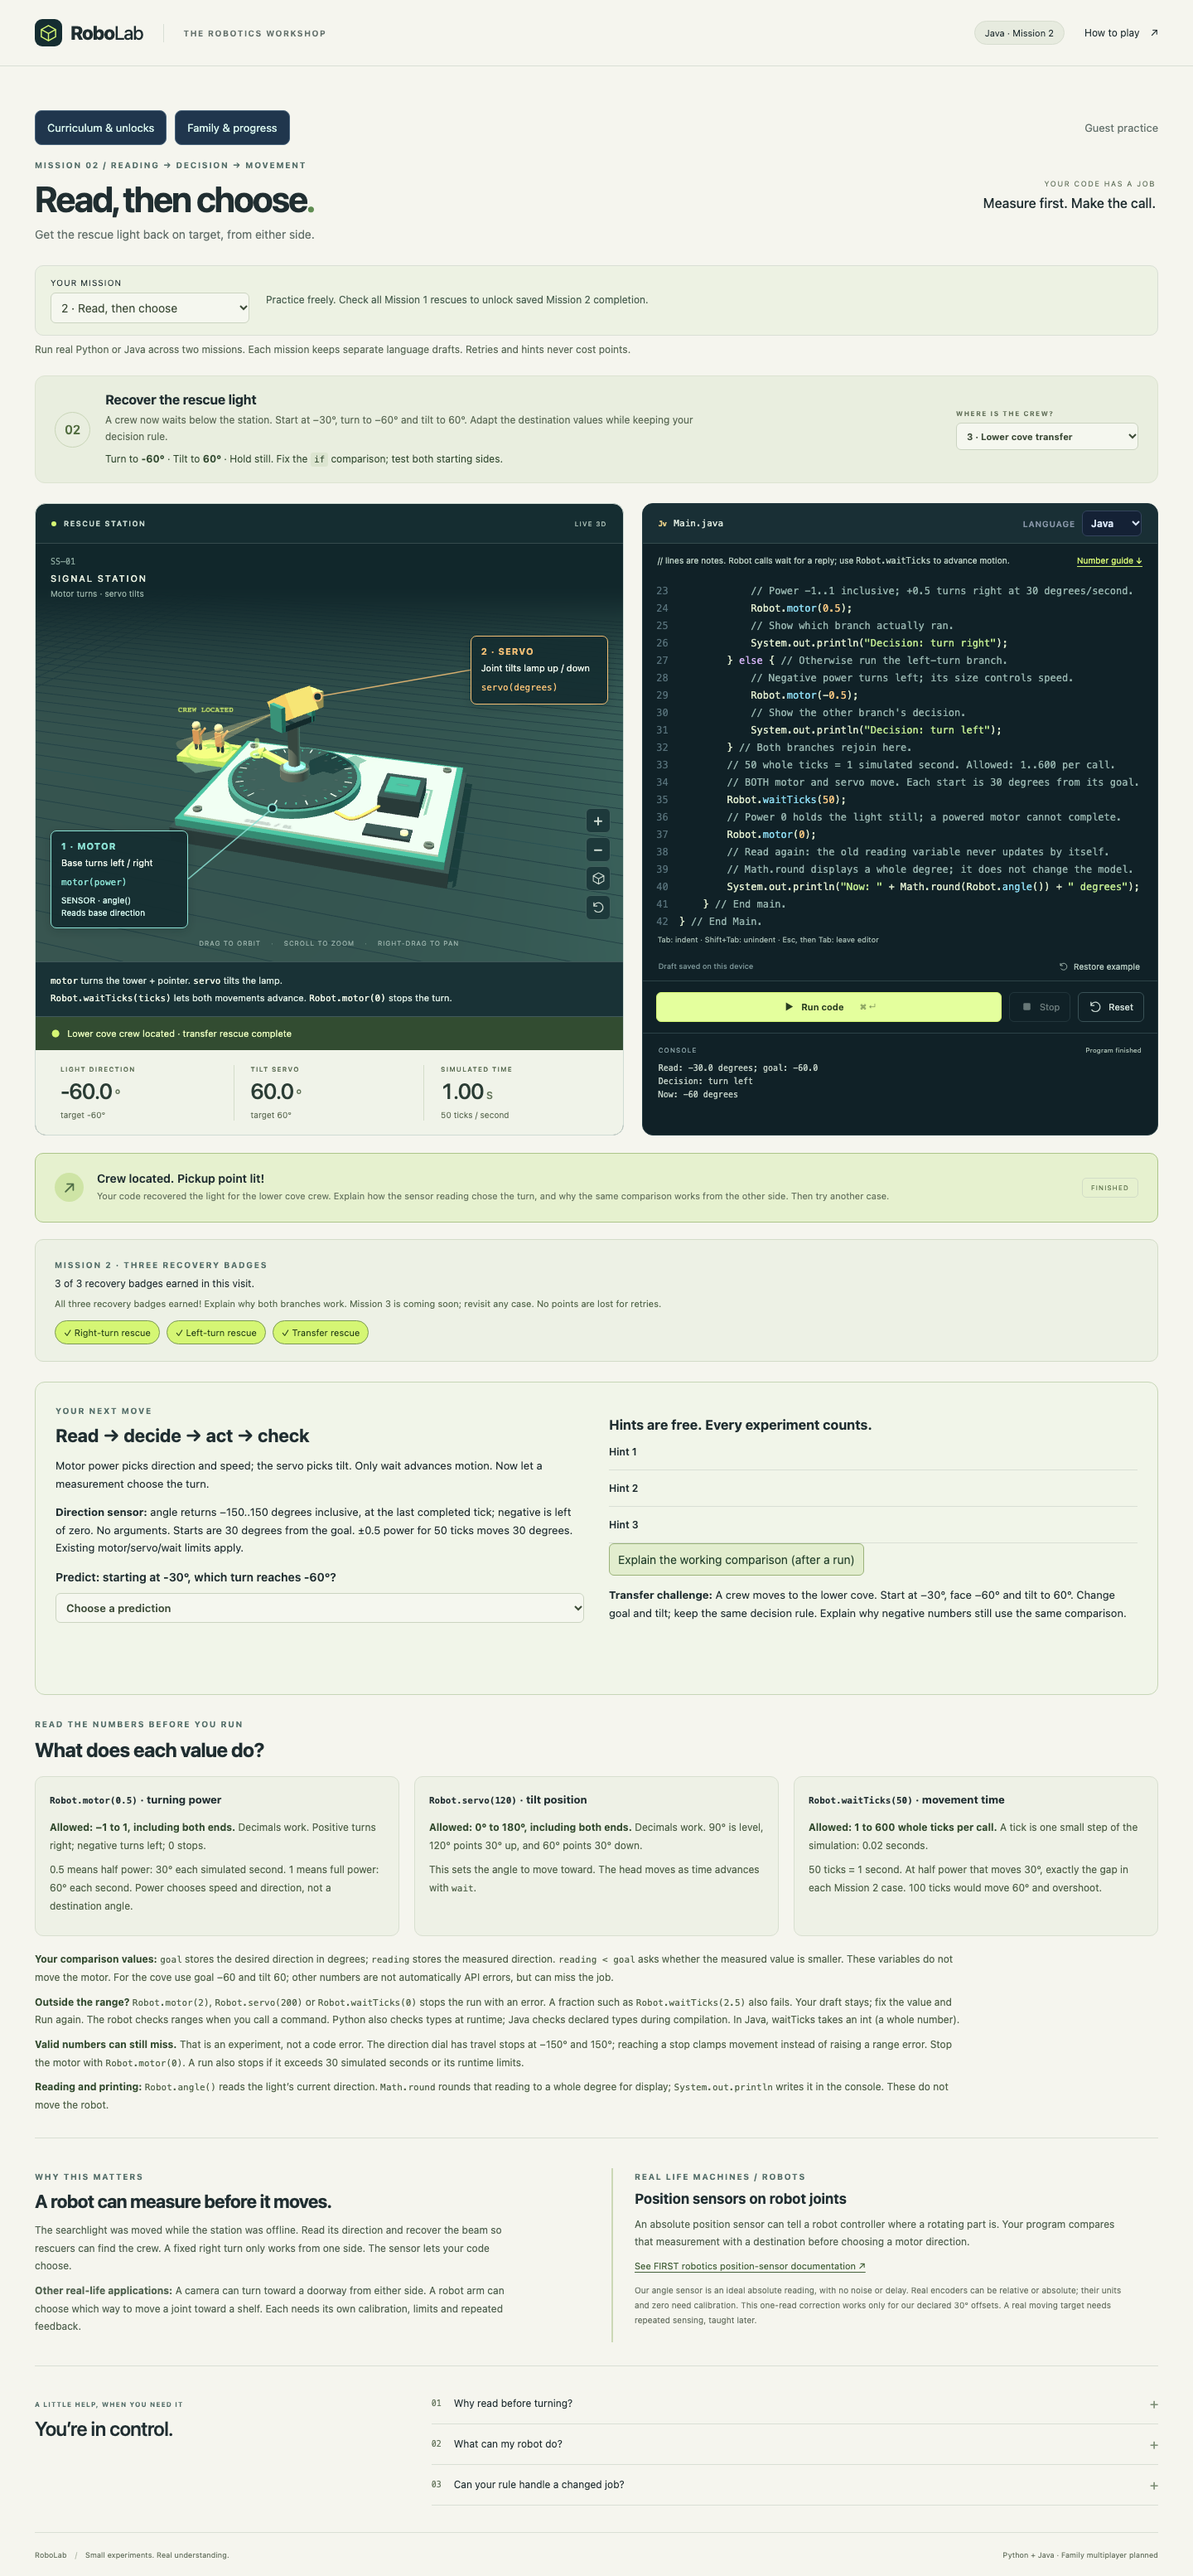
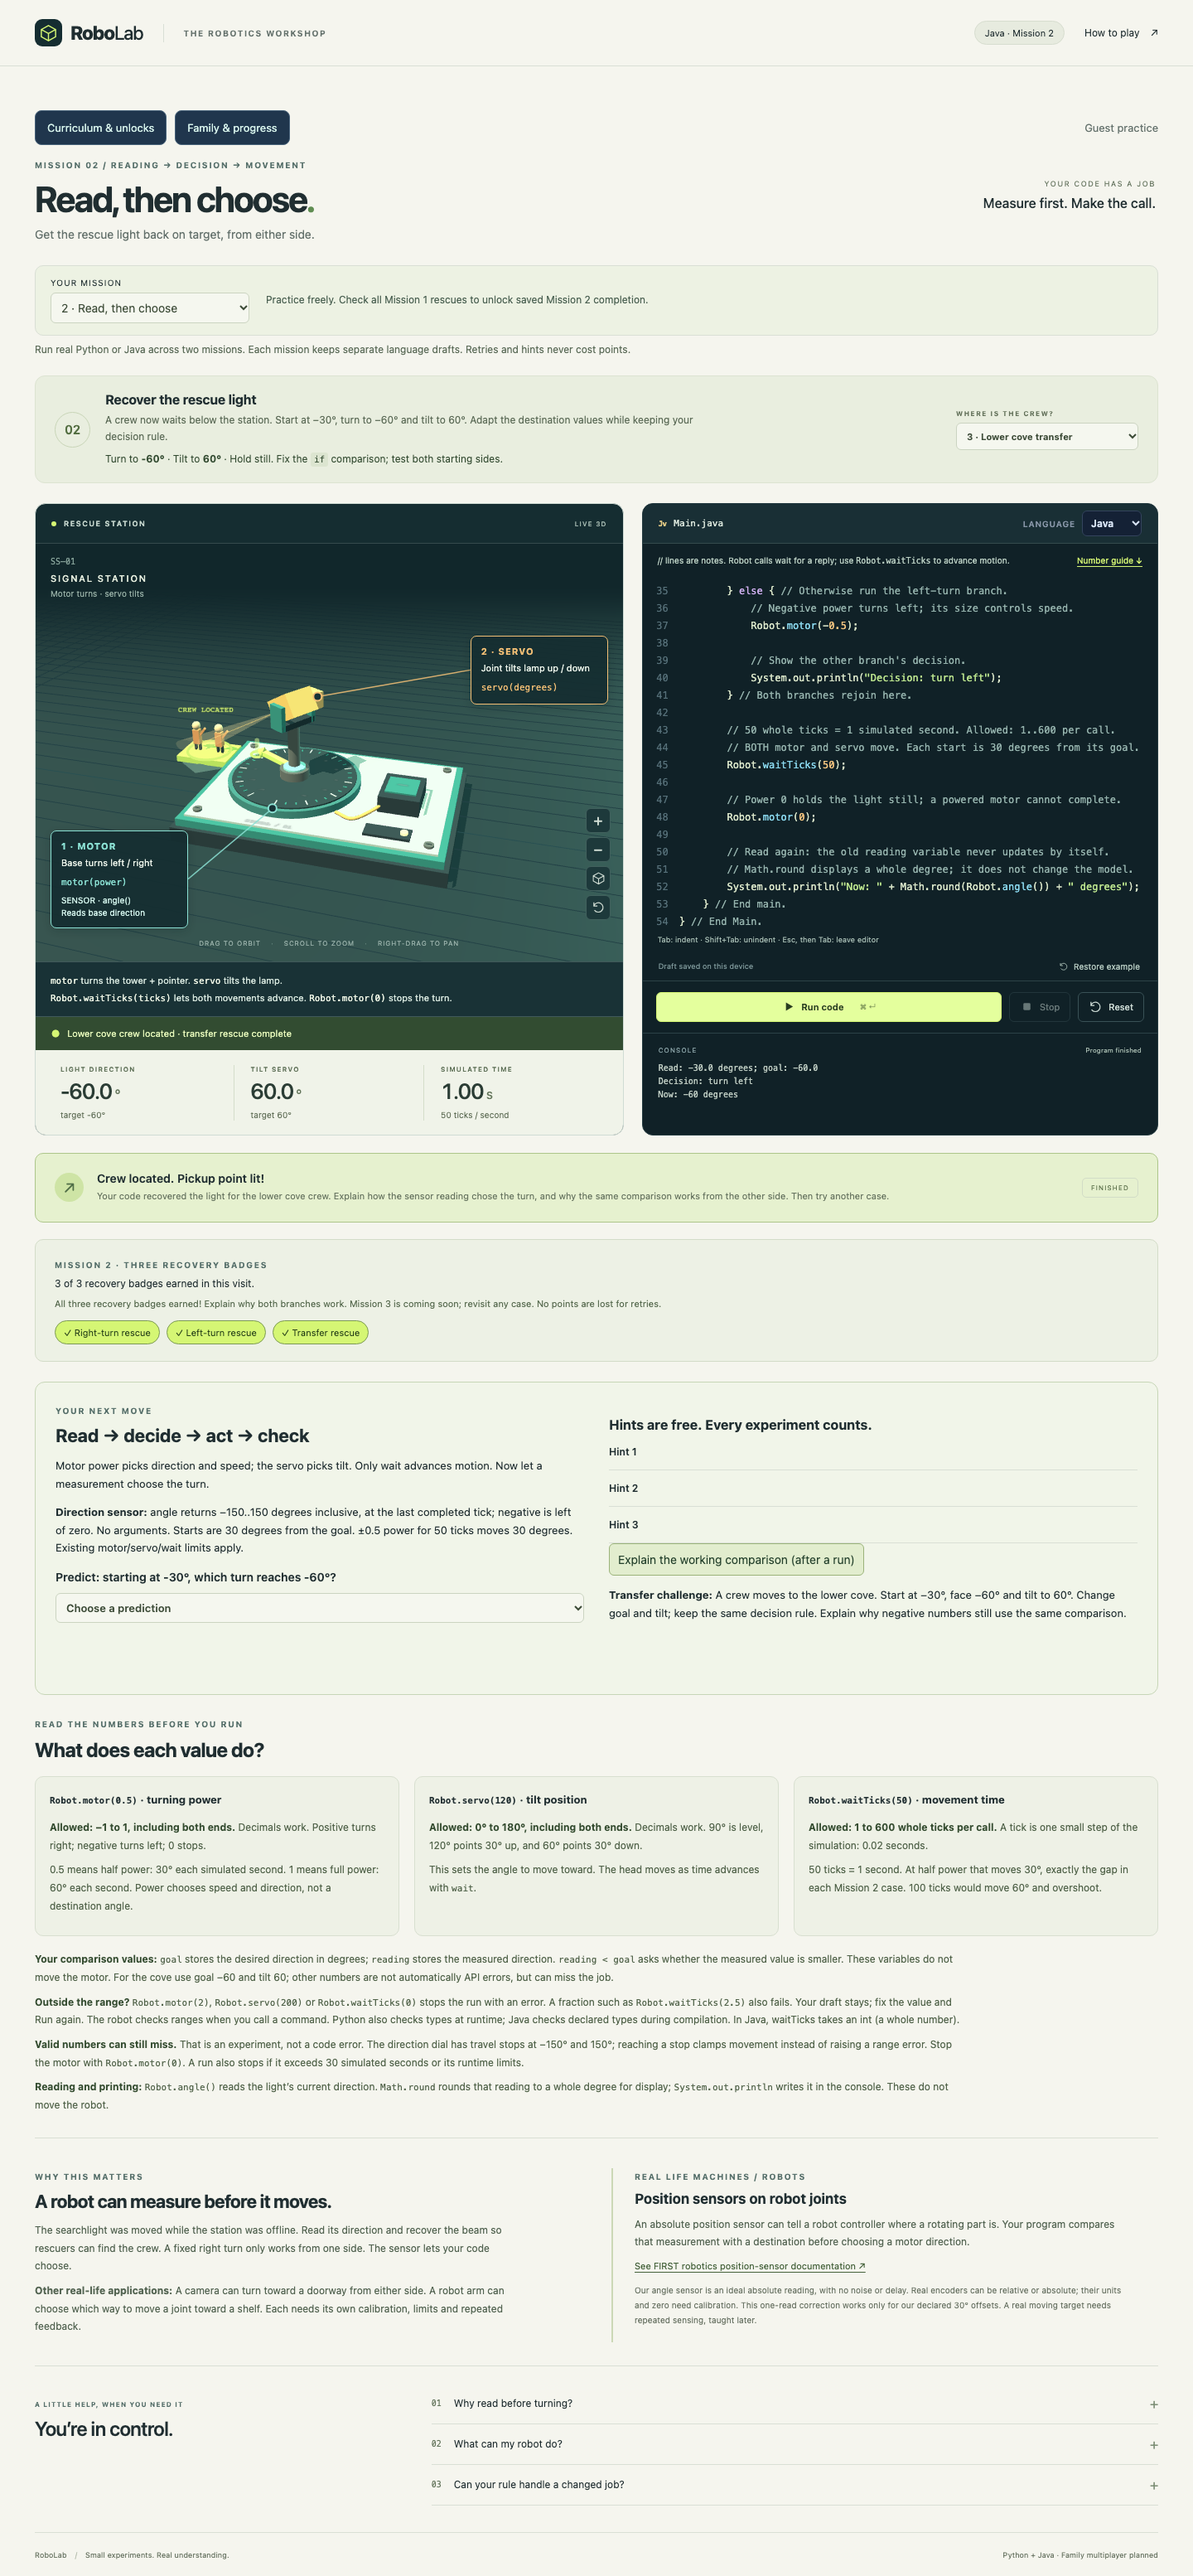
Space lesson explanations and code for easier reading

Changed region(s): [[0.5938, 0.2185, 0.9375, 0.3433]]

diff --git a/src/lessons.ts b/src/lessons.ts
@@ -2,20 +2,25 @@ import {lessonTargets, targets, type LessonId} from './model.ts';
 import {pythonStarter, javaStarter} from './starters.ts';
 export type Language = 'python' | 'java';
 export const sensorPython = `# Job: recover the light so rescuers can find the crew.
+
 # Import controls and the direction sensor; no hardware moves yet.
 from robot import motor, servo, wait, angle
 
 # Our destination is a direction, in degrees (-150 to 150).
 # A variable alone has no API range check. Compare it with the reading.
 goal = 60
+
 # Servo target: 0..180 degrees, inclusive; 120 points 30 degrees up.
 tilt = 120
+
 # await pauses THIS program until a call returns.
 # Reading angle returns the current direction (-150..150 degrees).
 # It measures the last completed tick; it does not move the light.
 reading = await angle()
+
 # print shows the measurement; it needs no await and causes no motion.
 print("Read:", reading, "degrees; goal:", goal)
+
 # The servo setting is accepted now; arrival needs wait below.
 await servo(tilt)
 
@@ -25,37 +30,49 @@ await servo(tilt)
 if reading > goal:
     # Power -1..1 inclusive; +0.5 turns right at 30 degrees/second.
     await motor(0.5)
+
     # This message tells us which branch actually ran.
     print("Decision: turn right")
 else:
     # else runs when the comparison is false. -0.5 turns left.
     await motor(-0.5)
+
     # Indentation puts this message inside the left-turn branch.
     print("Decision: turn left")
+
 # Outside both branches: advance 50 whole ticks = 1 simulated second.
 # wait accepts 1..600 whole ticks; both motor AND servo move during it.
 # Each authored start is exactly 30 degrees from its goal.
 await wait(50)
+
 # Power 0 holds the turn still. Without it the rescue cannot complete.
 await motor(0)
+
 # Read AGAIN: the old reading variable does not update by itself.
 # Round the display to a whole degree; the sensor/model keeps its precision.
 print("Now:", round(await angle()), "degrees")`;
 export const sensorJava = `// Job: recover the light so rescuers can find the crew.
+
 // Main names this program; keep the class and main method below.
 public class Main {
+
     // Java starts in main. throws Exception lets errors reach the console.
     public static void main(String[] args) throws Exception {
+
         // double holds decimal numbers; = assigns a value, ; ends a statement.
         // Our destination is a direction, in degrees (-150..150).
         double goal = 60;
+
         // Tilt: 0..180 degrees inclusive; 120 points 30 degrees up.
         double tilt = 120;
+
         // angle reads the last completed tick's direction (-150..150).
         // Java waits for the reply; no await keyword or motion is needed.
         double reading = Robot.angle();
+
         // + joins text and numbers. println displays the measured reading.
         System.out.println("Read: " + reading + " degrees; goal: " + goal);
+
         // Accept a servo setting now. Only waitTicks advances its movement.
         Robot.servo(tilt);
 
@@ -65,19 +82,24 @@ public class Main {
         if (reading > goal) {
             // Power -1..1 inclusive; +0.5 turns right at 30 degrees/second.
             Robot.motor(0.5);
+
             // Show which branch actually ran.
             System.out.println("Decision: turn right");
         } else { // Otherwise run the left-turn branch.
             // Negative power turns left; its size controls speed.
             Robot.motor(-0.5);
+
             // Show the other branch's decision.
             System.out.println("Decision: turn left");
         } // Both branches rejoin here.
+
         // 50 whole ticks = 1 simulated second. Allowed: 1..600 per call.
         // BOTH motor and servo move. Each start is 30 degrees from its goal.
         Robot.waitTicks(50);
+
         // Power 0 holds the light still; a powered motor cannot complete.
         Robot.motor(0);
+
         // Read again: the old reading variable never updates by itself.
         // Math.round displays a whole degree; it does not change the model.
         System.out.println("Now: " + Math.round(Robot.angle()) + " degrees");

diff --git a/src/starters.ts b/src/starters.ts
@@ -1,4 +1,5 @@
 export const pythonStarter = `# Job: hold the searchlight on the stranded crew.
+
 # Import the robot controls and direction sensor.
 from robot import motor, servo, wait, angle
 
@@ -12,13 +13,16 @@ turn_ticks = 50  # Try changing this number!
 # SERVO at the lamp joint: tilt the head up or down.
 # Set position: 0 to 180 degrees. 90 is level; 120 is 30 up.
 await servo(120)
+
 # MOTOR in the base: turn the tower and pointer left/right.
 # Set power: -1 to 1. 0.5 is half power to the right.
 await motor(0.5)
+
 # Let BOTH the motor turn and the servo tilt for this long.
 # await wait returns after these simulation steps finish.
 # Only wait advances time; setting power/position does not.
 await wait(turn_ticks)
+
 # Set power to 0 so the light stops and holds still.
 await motor(0)
 
@@ -27,9 +31,11 @@ await motor(0)
 # Neither round nor print needs await or moves the robot.
 print("Direction:", round(await angle()), "degrees")`;
 export const javaStarter = `// Job: hold the searchlight on the stranded crew.
+
 // A class groups Java code. Keep this name Main (the file is
 // Main.java).
 public class Main {
+
     // Java starts here. static means no Main object is needed.
     // void means no value is returned; args holds startup text
     // (unused here).
@@ -37,6 +43,7 @@ public class Main {
     // appear below.
     public static void main(String[] args)
             throws Exception {
+
         // int stores a whole number; = gives it a value; ;
         // ends the statement.
         // Allowed: 1 to 600 whole ticks per wait. 50 ticks = 1
@@ -52,14 +59,17 @@ public class Main {
         // 90 is level; 120 is 30 up. This does not wait for
         // arrival.
         Robot.servo(120);
+
         // MOTOR in the base: power -1..1. 0.5 turns right at
         // 30 degrees/second.
         Robot.motor(0.5);
+
         // Only waitTicks advances time: BOTH motor and servo
         // move during it.
         // This returns after all the ticks finish. 50 ticks =
         // 1 second.
         Robot.waitTicks(turn_ticks);
+
         // Power 0 stops the motor so the searchlight holds
         // still.
         Robot.motor(0);

diff --git a/docs/FOUNDATION.md b/docs/FOUNDATION.md
@@ -31,7 +31,7 @@ Read [CURRICULUM.md](CURRICULUM.md) before adding a lesson or world. Student con
 
 ## Teaching and numeric contract
 
-Before first Run, tell the learner what the machine accomplishes. Label each controlled part directly in the diagram with its command and movement: for S01, the base motor turns the tower/pointer and the side-joint servo tilts the lamp. Leaders follow the actual part as the camera moves; retain a readable command-to-part key for narrow screens and WebGL fallback. Explain that `wait(ticks)` advances both movements. Check the mapping with separate motor-only and servo-only programs and inspect default/top/narrow views. Explain every executable starter line, including imports, variables, `await`, sensors and console output. Comments must explain purpose and effect, not merely repeat the function name. Keep relevant range/unit guidance reachable from the editor and visible in the lesson.
+Before first Run, tell the learner what the machine accomplishes. Label each controlled part directly in the diagram with its command and movement: for S01, the base motor turns the tower/pointer and the side-joint servo tilts the lamp. Leaders follow the actual part as the camera moves; retain a readable command-to-part key for narrow screens and WebGL fallback. Explain that `wait(ticks)` advances both movements. Check the mapping with separate motor-only and servo-only programs and inspect default/top/narrow views. Explain every executable starter line, including imports, variables, `await`, sensors and console output. Comments must explain purpose and effect, not merely repeat the function name. Keep each explanation directly above its code and add a blank line before the next explanation-and-code group, including within branches. Keep consecutive comment lines together. Apply this spacing to Python and Java starters and worked examples; never reformat or replace a saved student draft automatically. Keep relevant range/unit guidance reachable from the editor and visible in the lesson.
 
 Explain `await` at first use: pause this program until the call returns. For motor/servo this acknowledges a setting; it does not mean arrival. Only `wait` advances ticks and concurrent actuator motion; sensor reads observe the last completed tick. Ordinary calculations/print need no await. Later comments explain conditions, indentation, loop updates/termination, async function definitions/calls, parameters, returns, indices, sensor validity and priority. Java explains its actual API semantics. Require the self-study recap, prediction/trace, graduated hints, glossary, recovery and transfer in CURRICULUM.md. Automated presence checks cannot establish clear teaching; inspect code and collect learner feedback.
 

diff --git a/docs/PROGRESS.md b/docs/PROGRESS.md
@@ -39,3 +39,9 @@ Actual student/device pilots and OPS-01 scheduled-access/atomic-cycle proof rema
 - Passed locally: 10 account browser tests, including a real isolated Java prerequisite/completion journey and cross-device/sibling separation; 5 real Python/Java Mission 2 walkthroughs including all hints, mistakes, transfer, Stop/Reset and draft preservation; TypeScript/build. Desktop, narrow and synthetic family screenshots inspected. Final-head CI is required before handoff and is linked in PR #2.
 - Final laptop visual pass removed a redundant pickup-point legend that overlapped the 3D crew status at a 1280-pixel viewport. The useful 3D and accessible crew-status labels remain.
 - Boundaries: in-memory local account fixtures and real local Java are not cloud-provider proof. No merge/deploy, production-data changes, automation changes or later mission work. Learner/device/pacing and hosted release checks remain pending.
+
+### S03 owner feedback — lesson-code spacing
+
+- Added blank lines between each explanation-and-code group in the Python and Java starters for Missions 1 and 2. Worked/reference examples inherit the same spacing. Nonblank source lines are identical; saved drafts and student records are not reformatted or replaced.
+- Made this readability convention part of FOUNDATION.md for future lessons. Existing drafts can opt into the revised starter with Restore example, which replaces that draft.
+- Passed locally: 8 model/schema checks, TypeScript/build and both complete Mission 2 language walkthroughs (starter miss, both correction directions, transfer and reset). Refreshed Python/Java screenshots inspected; existing final-head CI remains the acceptance gate and is recorded in PR #2.
